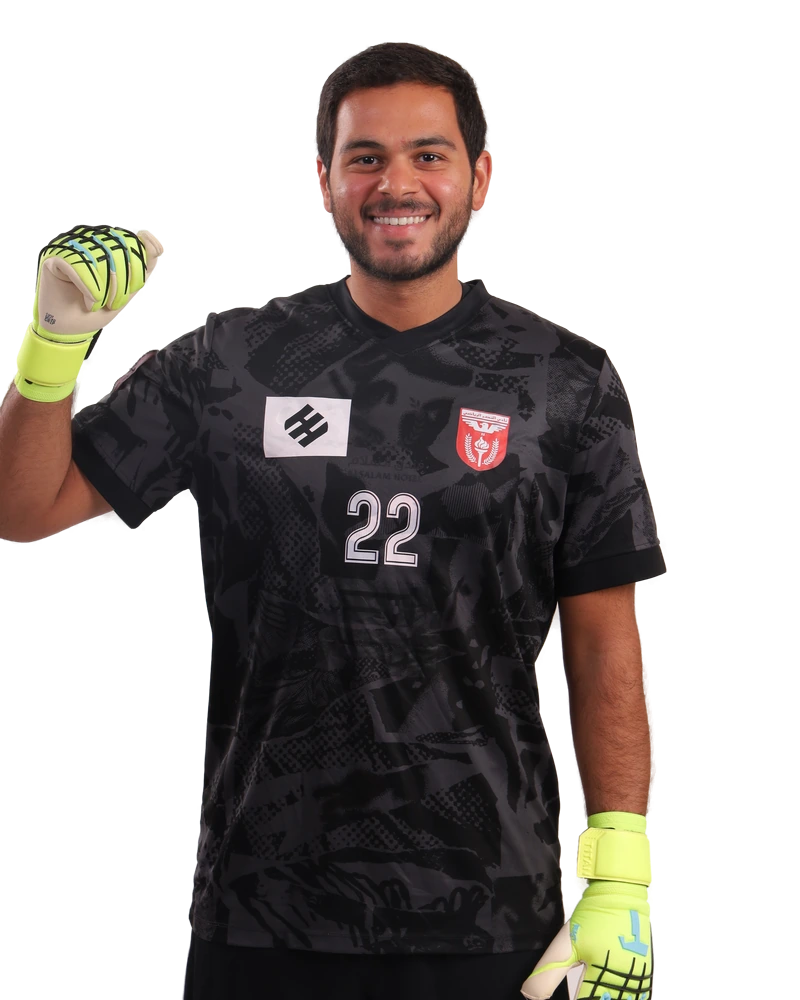
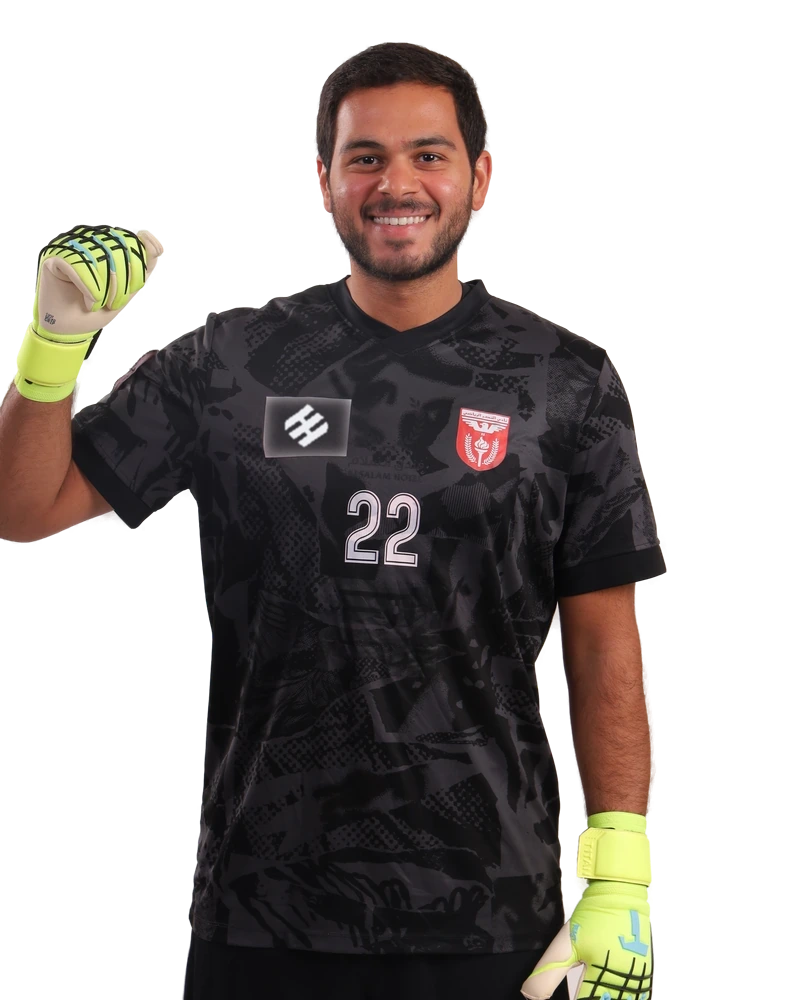
النصر: صورة محمد الحسينان 22 — إزالة المربع الأبيض حول شعار الماركة وطباعته أبيض على القميص — صور ?v=16، sw -102، fantasy 221

Changed region(s): [[0.3125, 0.372, 0.4375, 0.465]]

diff --git a/fantasy/index.html b/fantasy/index.html
@@ -12,7 +12,7 @@
 <link rel="preconnect" href="https://fonts.googleapis.com">
 <link rel="preconnect" href="https://fonts.gstatic.com" crossorigin>
 <link href="https://fonts.googleapis.com/css2?family=Vazirmatn:wght@300;400;500;600;700;800&display=swap" rel="stylesheet">
-<link rel="stylesheet" href="css/style.css?v=220">
+<link rel="stylesheet" href="css/style.css?v=221">
 <script src="https://cdnjs.cloudflare.com/ajax/libs/firebase/10.12.2/firebase-app-compat.min.js"></script>
 <script src="https://cdnjs.cloudflare.com/ajax/libs/firebase/10.12.2/firebase-auth-compat.min.js"></script>
 <script src="https://cdnjs.cloudflare.com/ajax/libs/firebase/10.12.2/firebase-firestore-compat.min.js"></script>
@@ -20,13 +20,13 @@
 </head>
 <body>
   <div id="splash">
-    <div class="splash-card"><img class="splash-logo" src="assets/logo-light.png?v=220" alt="Kuwait Fantasy League"></div>
+    <div class="splash-card"><img class="splash-logo" src="assets/logo-light.png?v=221" alt="Kuwait Fantasy League"></div>
   </div>
 
   <header id="topbar" style="display:none">
     <div id="brand" onclick="APP.go('dashboard')">
-      <img class="brand-lockup lk-dark" src="assets/logo-dark.png?v=220" alt="Kuwait Fantasy League">
-      <img class="brand-lockup lk-light" src="assets/logo-light.png?v=220" alt="Kuwait Fantasy League">
+      <img class="brand-lockup lk-dark" src="assets/logo-dark.png?v=221" alt="Kuwait Fantasy League">
+      <img class="brand-lockup lk-light" src="assets/logo-light.png?v=221" alt="Kuwait Fantasy League">
     </div>
     <a id="toSite" href="/" title="العودة للموقع">
       <svg viewBox="0 0 24 24" width="16" height="16" fill="none" stroke="currentColor" stroke-width="2.2" stroke-linecap="round" stroke-linejoin="round" aria-hidden="true"><path d="M9 6l6 6-6 6"/></svg>
@@ -41,28 +41,28 @@
   <nav id="bottomnav"></nav>
   <div id="toasts"></div>
 
-  <script src="js/cloud.js?v=220"></script>
-  <script src="js/data.js?v=220"></script>
-  <script src="js/engine.js?v=220"></script>
-  <script src="js/ui.js?v=220"></script>
-  <script src="js/photos.js?v=220"></script>
-  <script src="js/kits.js?v=220"></script>
-  <script src="js/kits-number.js?v=220"></script>
-  <script src="js/moderation.js?v=220"></script>
-  <script src="js/views.js?v=220"></script>
-  <script src="js/picker.js?v=220"></script>
-  <script src="js/extras.js?v=220"></script>
-  <script src="js/push.js?v=220"></script>
-  <script src="js/adminauth.js?v=220"></script>
-  <script src="js/admin.js?v=220"></script>
-  <script src="js/guide.js?v=220"></script>
-  <script src="js/live-gw.js?v=220"></script>
-  <script src="js/points.js?v=220"></script>
-  <script src="js/mfsync.js?v=220"></script>
-  <script src="js/roster-sync.js?v=220"></script>
-  <script src="js/app.js?v=220"></script>
-  <script src="js/i18n.js?v=220"></script>
-  <script src="js/i18n-more.js?v=220"></script>
-  <script src="js/gate.js?v=220"></script>
+  <script src="js/cloud.js?v=221"></script>
+  <script src="js/data.js?v=221"></script>
+  <script src="js/engine.js?v=221"></script>
+  <script src="js/ui.js?v=221"></script>
+  <script src="js/photos.js?v=221"></script>
+  <script src="js/kits.js?v=221"></script>
+  <script src="js/kits-number.js?v=221"></script>
+  <script src="js/moderation.js?v=221"></script>
+  <script src="js/views.js?v=221"></script>
+  <script src="js/picker.js?v=221"></script>
+  <script src="js/extras.js?v=221"></script>
+  <script src="js/push.js?v=221"></script>
+  <script src="js/adminauth.js?v=221"></script>
+  <script src="js/admin.js?v=221"></script>
+  <script src="js/guide.js?v=221"></script>
+  <script src="js/live-gw.js?v=221"></script>
+  <script src="js/points.js?v=221"></script>
+  <script src="js/mfsync.js?v=221"></script>
+  <script src="js/roster-sync.js?v=221"></script>
+  <script src="js/app.js?v=221"></script>
+  <script src="js/i18n.js?v=221"></script>
+  <script src="js/i18n-more.js?v=221"></script>
+  <script src="js/gate.js?v=221"></script>
 </body>
 </html>

diff --git a/sw.js b/sw.js
@@ -9,7 +9,7 @@
 
    عند كل نشر: ارفع رقم VER فتُبنى ذاكرة جديدة وتُحذف القديمة.
    ========================================================= */
-const VER   = 'mf-2026-09-16-101';
+const VER   = 'mf-2026-09-16-102';
 const SHELL = 'shell-' + VER;
 const RUN   = 'run-'   + VER;
 

diff --git a/fantasy/js/photos.js b/fantasy/js/photos.js
@@ -4,7 +4,7 @@
 'use strict';
 
 /* رقم نسخة الصور: ارفعه عند إعادة توليد أي قصّة حتى لا يبقى المتصفح على النسخة القديمة */
-const PLAYER_PHOTOS_VER = '15';
+const PLAYER_PHOTOS_VER = '16';
 
 const PLAYER_PHOTOS = {
   // الصليبخات (17)
